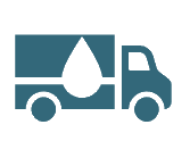
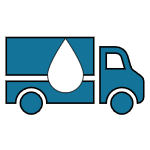
new changes/updates

diff --git a/index.html b/index.html
@@ -174,11 +174,11 @@ ga('send', 'pageview');
                 <p class="blue-txt">When Buying or Selling</p>
                 <div class="categories">
                         <div class="category">
-                            <img src="imgs/iconsFencing.png" alt="">
+                            <img src="imgs/iconsFencing.svg" alt="">
                             <p>Fencing</p>    
                         </div>
                         <div class="category">
-                            <img src="imgs/iconsWaterControl.png" alt="">
+                            <img src="imgs/iconsWaterControl.svg" alt="">
                             <p>Water Control</p>    
                         </div>
                         <div class="category">
@@ -190,7 +190,7 @@ ga('send', 'pageview');
                             <p>Agri Chemicals</p>    
                         </div>
                         <div class="category">
-                            <img src="imgs/iconsContracting.png" alt="">
+                            <img src="imgs/iconsContracting.svg" alt="">
                             <p>Contracting</p>    
                         </div>
                         <div class="category">
@@ -198,7 +198,7 @@ ga('send', 'pageview');
                             <p>Fuel & Lubricants</p>    
                         </div>
                         <div class="category">
-                            <img src="imgs/iconsPestControl.png" alt="">
+                            <img src="imgs/iconsPestControl.svg" alt="">
                             <p>Pest Control</p>    
                         </div>
                         <div class="category">
@@ -221,16 +221,18 @@ ga('send', 'pageview');
                     <div class="info">
                         <div class="info-title-line" id="buyerTitle">
                             <h2>Buyers</h2> 
-                            <div id="buyerReveal" class="see-more">
-                                <i class="fas fa-search"></i>
-                            </div>
+                            
                         </div>
 
                         <p>Buyers can now quickly and easily get the best deal from multiple suppliers. 
                         No ringing around, haggling, emails, searching or comparing apples with lemons.</p>
                         
                         <div class="third-line">
-                            <button class="home-btn btn-green">Try Free</button>
+                            
+                            <button class="home-btn btn-green">View as Buyer</button>
+                            <div id="buyerReveal" class="see-more">
+                                <i id="buyerRevealIcon" class="fas fa-search"></i>
+                            </div>
                         </div>
                             <div id="buyerInfo" class="buyers-hovered">
                                 <ul>
@@ -270,15 +272,15 @@ ga('send', 'pageview');
                             </div>
                         <div class="info-title-line">
                             <h2 id="infoSupplier">Suppliers</h2>
-                            <div id="supplierReveal" class="see-more">
-                                <i class="fas fa-search"></i>
-                            </div>
+                            
                         </div>
 
                         <p>Suppliers can now easily and economically acquire sales opportunities</p>
                         <div class="third-line">
-                            <button class="home-btn btn-blue">Try Free</button>
-                        
+                            <button class="home-btn btn-blue">View as Supplier</button>
+                            <div id="supplierReveal" class="see-more">
+                                <i id="supplierRevealIcon" class="fas fa-search"></i>
+                            </div>
                          
                         </div>
 

diff --git a/css/custom.css b/css/custom.css
@@ -1,7 +1,7 @@
 .home-btn{
     border: none !important;
 	font-family: inherit !important;
-	font-size: 18px !important;
+	font-size: 16px !important;
 	cursor: pointer !important;
 	padding: 8px 40px !important;
 	display: inline-block !important;
@@ -596,7 +596,7 @@ main #search #seachResults ul li .template-withtabs-content-flexitem3 table a{
 }
 
 .category img {
-   max-height: 128px;
+   height: 128px;
 }
 .category p {
     color: #003b4e;
@@ -639,19 +639,21 @@ main #search #seachResults ul li .template-withtabs-content-flexitem3 table a{
     align-items: baseline;
 }
 
-.info-title-line .see-more{
-    margin-left: 20px;
+.third-line .see-more{
+    margin: 0px 10px;
     background: #17954c;
-    padding: 7px 10px;
+    padding: 14px 17px;
+    border: 4px solid #17954c;
     border-radius: 50%;
+}
 
- 
-
+.third-line .see-more:hover{
+    background: transparent;
+    color:#17954c !important;
 }
 
 
-
-.info-title-line .see-more i{
+.third-line .see-more i{
     color:white !important;
 }
 
@@ -670,6 +672,14 @@ main #search #seachResults ul li .template-withtabs-content-flexitem3 table a{
    
 }
 
+.buyers-info .icon-column i {
+    color: #17954c !important;
+}
+
+.suppliers-info .icon-column i{
+    color: #147398 !important;
+}
+
 .suppliers-info {
     margin-bottom: 50px;
 }
@@ -679,6 +689,9 @@ main #search #seachResults ul li .template-withtabs-content-flexitem3 table a{
     flex-basis: 50%;
     color: #000000;
     font-size:18px;
+    background: rgba(254, 254, 254, 0.2);
+    padding: 0px 20px 36px 20px;
+    border-radius:5px;
 }
 
 
@@ -769,7 +782,8 @@ main #search #seachResults ul li .template-withtabs-content-flexitem3 table a{
 }
  #buyerInfo{
     position: absolute;
-    right: 10%;    
+    right: 10%;   
+    top: 380px; 
 }
 
  #buyerTitle{
@@ -785,12 +799,17 @@ main #search #seachResults ul li .template-withtabs-content-flexitem3 table a{
     top: 450px;
  }
 
- .suppliers-info .info .info-title-line .see-more{
+ .suppliers-info .info .third-line .see-more{
      background-color: #147398;
-    
+    border: 4px solid #147398;
  }
 
- .suppliers-info .info .info-title-line .see-more i{
+ .suppliers-info .info .third-line .see-more:hover{
+    background-color: transparent;
+   
+}
+
+ .suppliers-info .info .third-line .see-more i{
     color: white !important;
 }
 
@@ -2779,12 +2798,24 @@ input.bad_bid{
 
     .icon-column{
         text-align: center !important;
+        width: auto !important;
+        margin-bottom: 10px;
     }
+    .category img {
+        max-height: 128px;
+        height: auto;
+     }
+
+     .home-btn{
+         font-size: 12px !important;
+     }
+
+
  }
 
  @media only screen and (max-width: 813px) and (orientation: landscape){
     #firstMessage .categories {
-         margin: 0 50px;
+         margin: 20px 0px;
      }
 
      .categories .category {
@@ -2865,5 +2896,10 @@ input.bad_bid{
     }
     .icon-column{
         text-align: center !important;
+        margin-bottom: 10px;
     }
+    .category img {
+        max-height: 128px;
+        height: auto;
+     }
  }

diff --git a/js/script.js b/js/script.js
@@ -1318,18 +1318,24 @@ $("#calculate_button").click(function(e){
     $("#buyerReveal").hover(function(){
         $("#buyerInfo").fadeTo("5000", "1");
         $("#buyerInfo").css("visibility", "inherit");
+        $("#buyerRevealIcon").css("cssText", "color: #17954c !important;");
         
     }, function(){
         $("#buyerInfo").fadeTo("400", "0");
+        $("#buyerRevealIcon").css("cssText", "color: white !important;");
     });
 
     $("#supplierReveal").hover(function(){
+        $("#supplierRevealIcon").css("cssText", "color: #147398 !important;");
         $("#supplierInfo").fadeTo("5000", "1");
         $("#supplierInfo").css("visibility", "inherit");
     }, function(){
         $("#supplierInfo").fadeTo("400", "0");
+        $("#supplierRevealIcon").css("cssText", "color: white !important;");
     });
 
+
+   
 
   });
   
